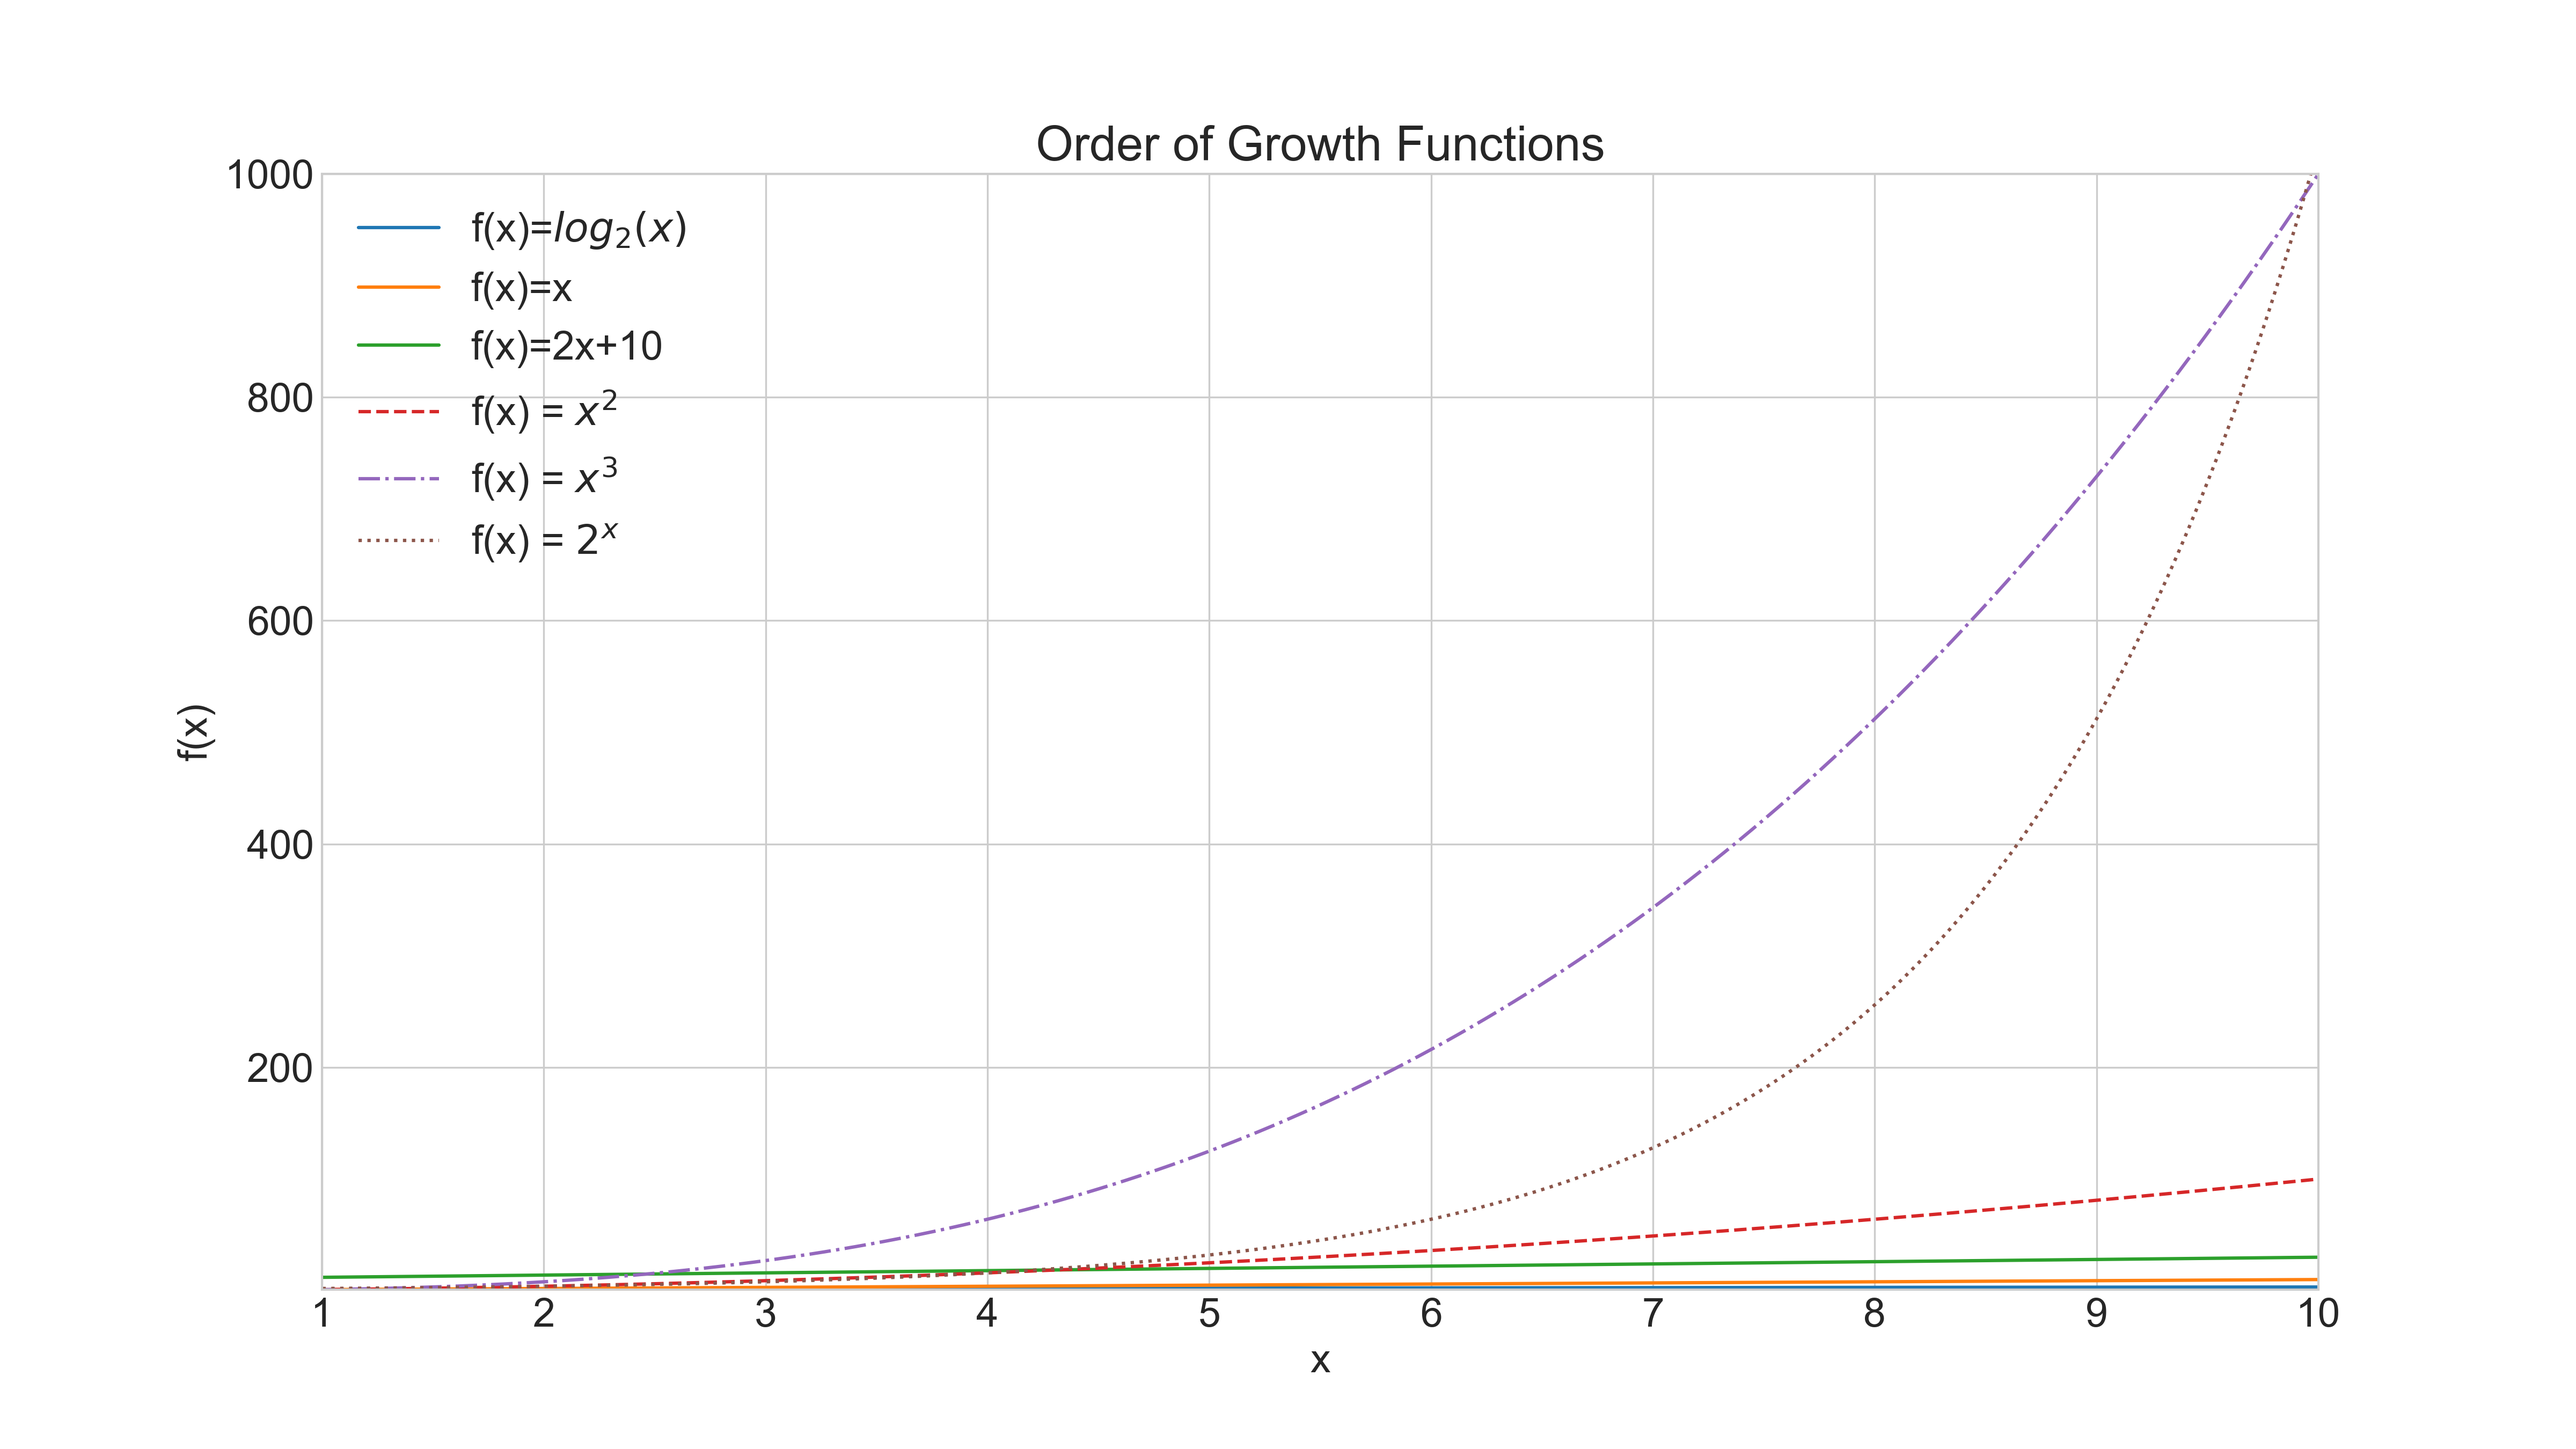
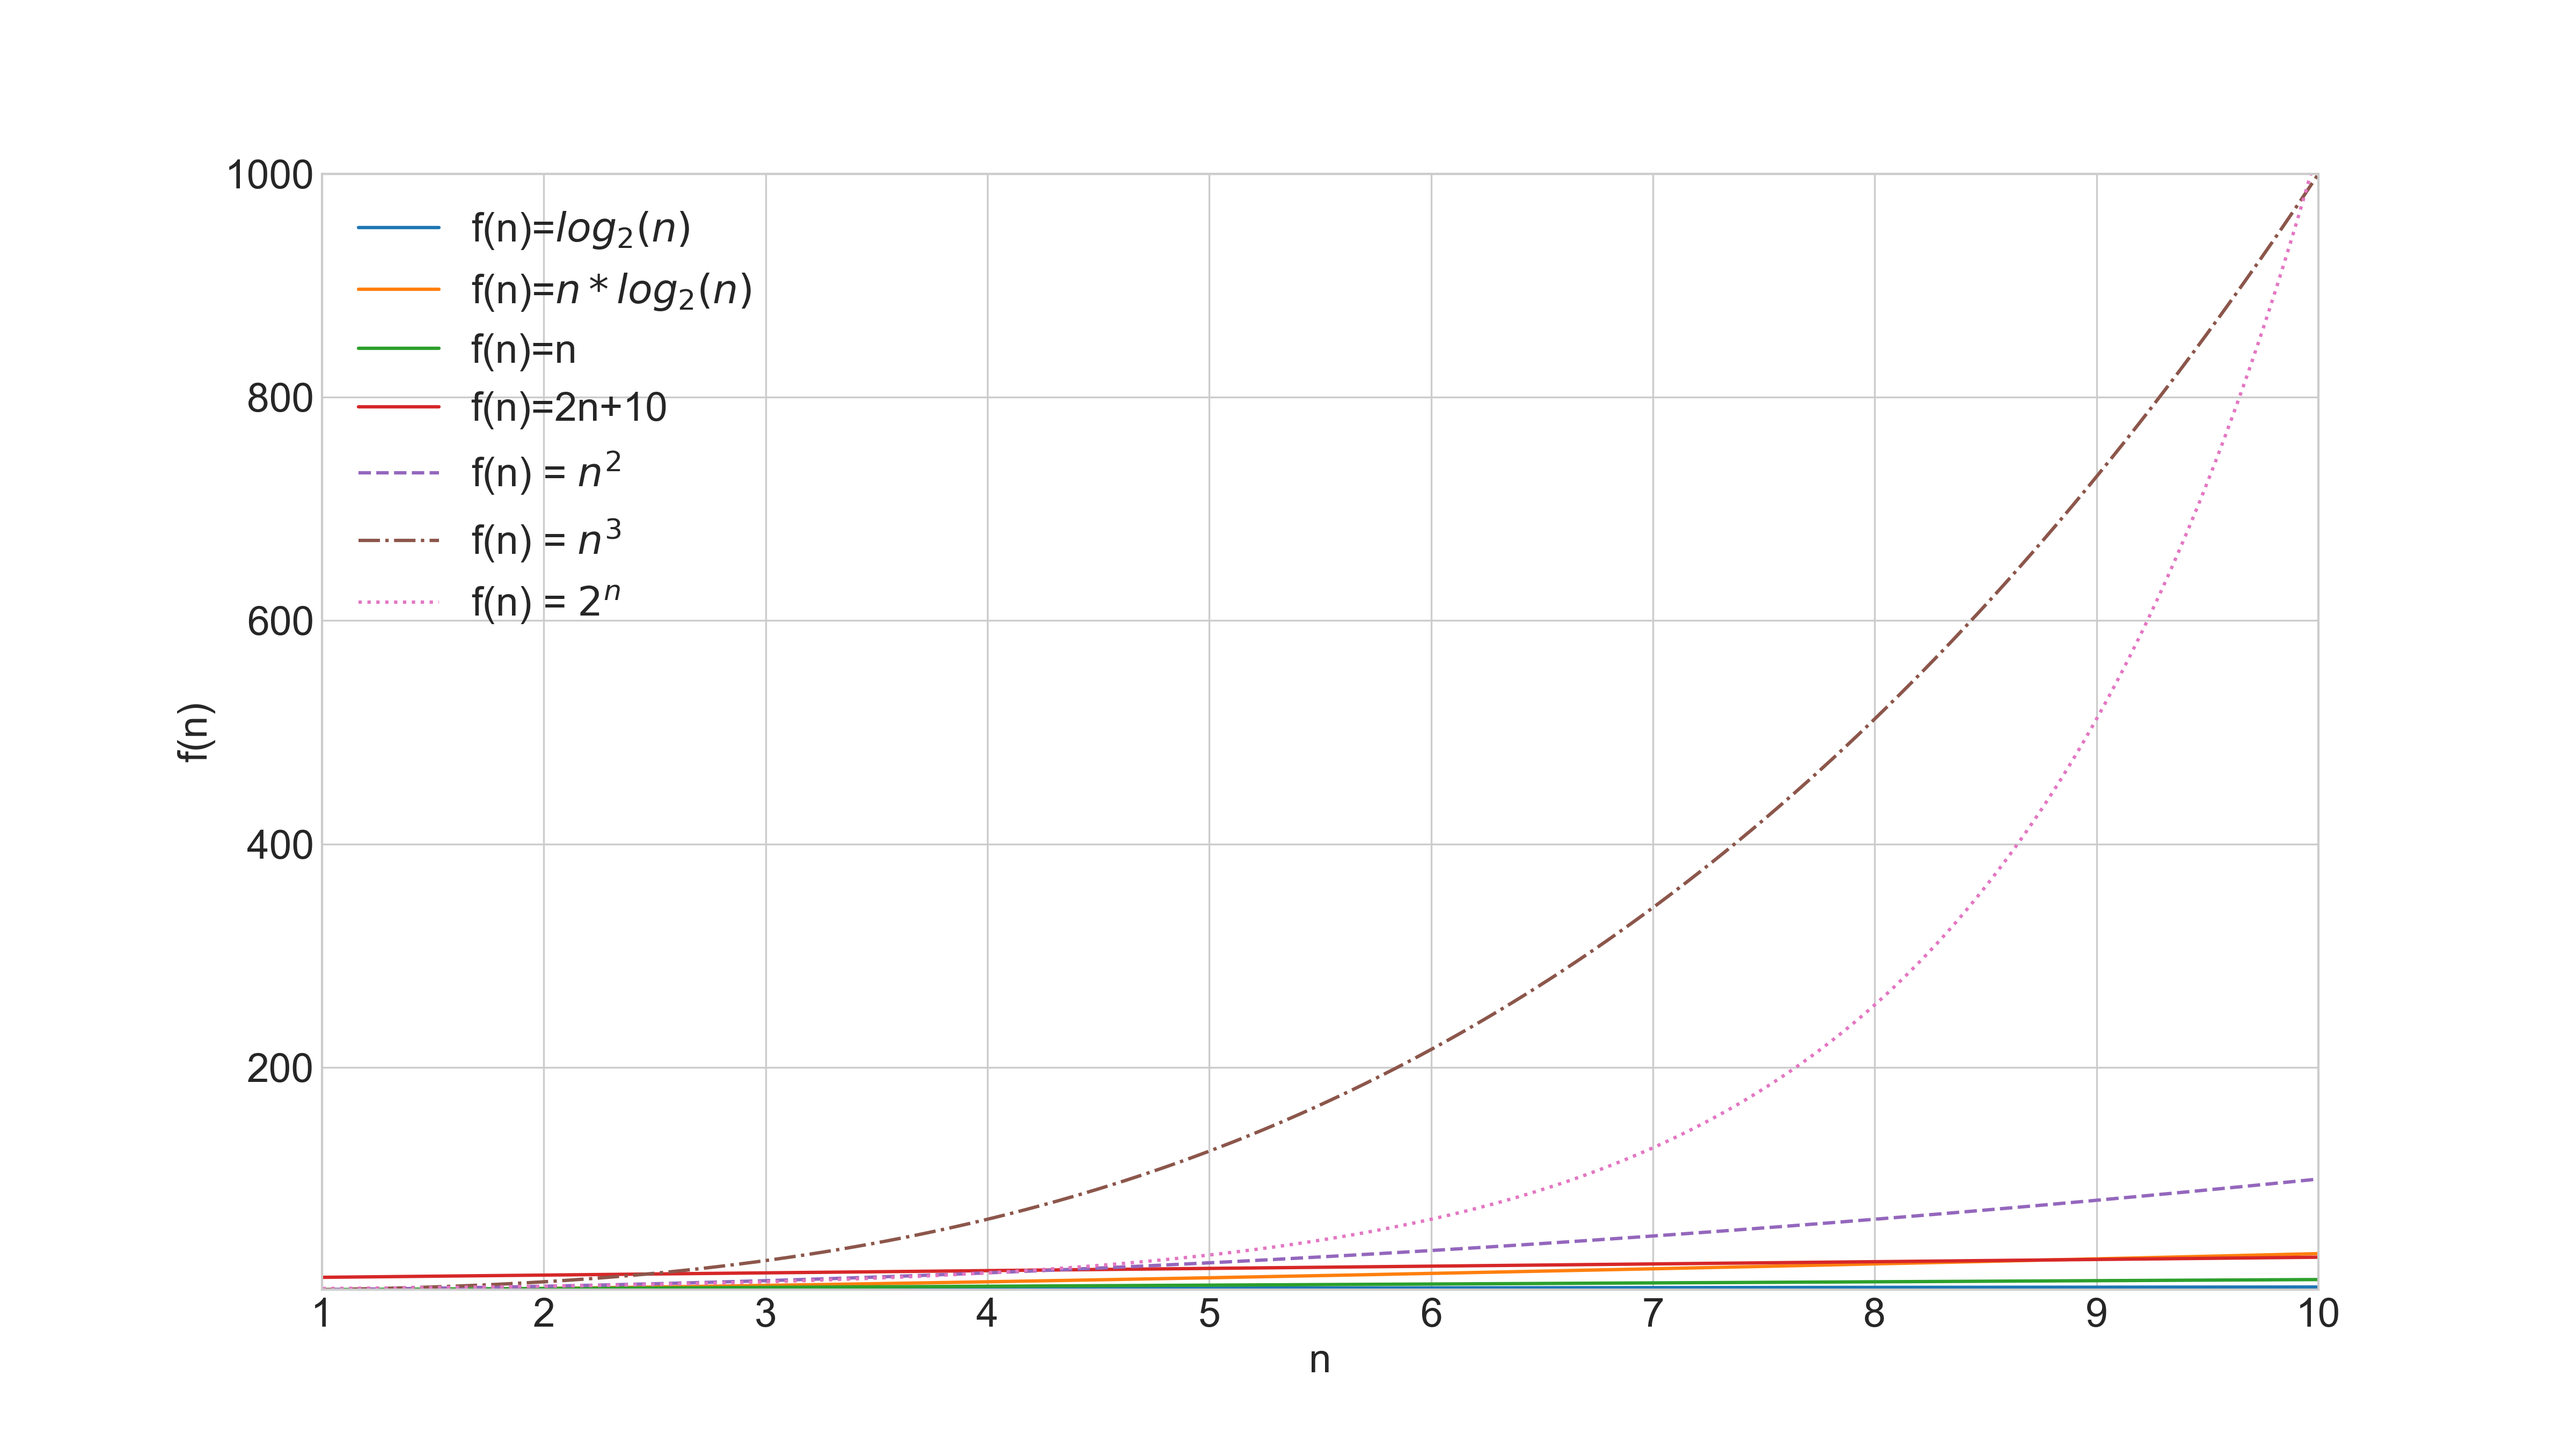
Update the create-graphs.py script and then create new all-functions.png

diff --git a/src/create-graphs.py b/src/create-graphs.py
@@ -17,7 +17,6 @@ x = np.linspace(0, 10, 1000)
 
 plt.figure(figsize=(16,9))
 
-plt.title("Order of Growth Functions")
 plt.xlabel("n")
 plt.ylabel("f(n)")
 
@@ -25,6 +24,7 @@ plt.ylabel("f(n)")
 plt.axis([1, 10, 1, 1000]);
 
 plt.plot(x, np.log2(x), linestyle='solid', label="f(n)=$log_2(n)$")
+plt.plot(x, x * np.log2(x), linestyle='solid', label="f(n)=$n*log_2(n)$")
 plt.plot(x, x, linestyle='solid', label="f(n)=n")
 plt.plot(x, 2 * x + 10, linestyle='solid', label="f(n)=2n+10")
 plt.plot(x, x * x, linestyle='dashed', label="f(n) = $n^2$")
